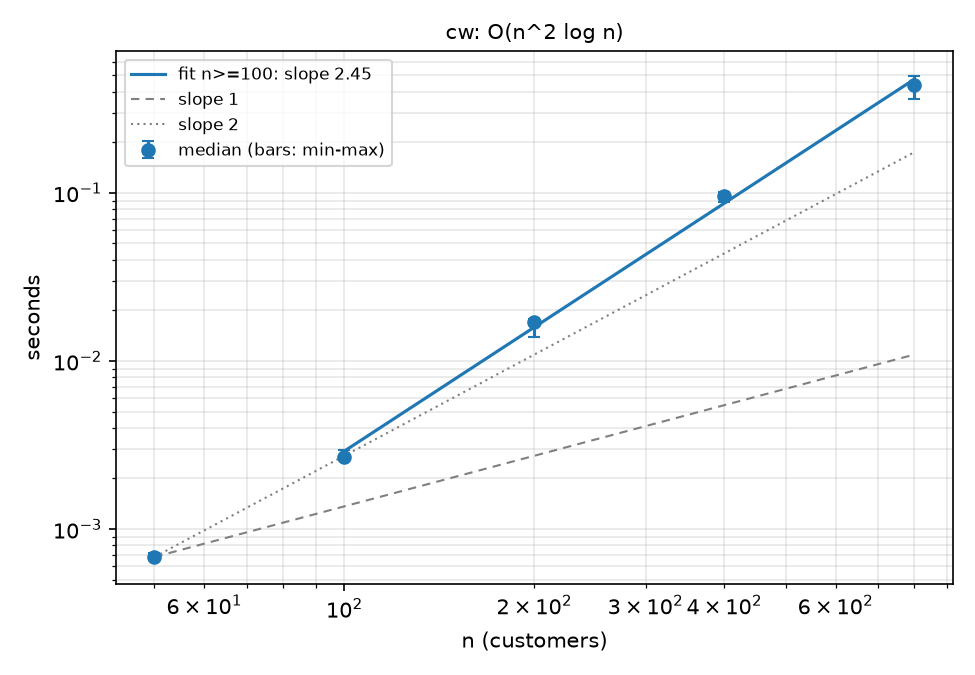
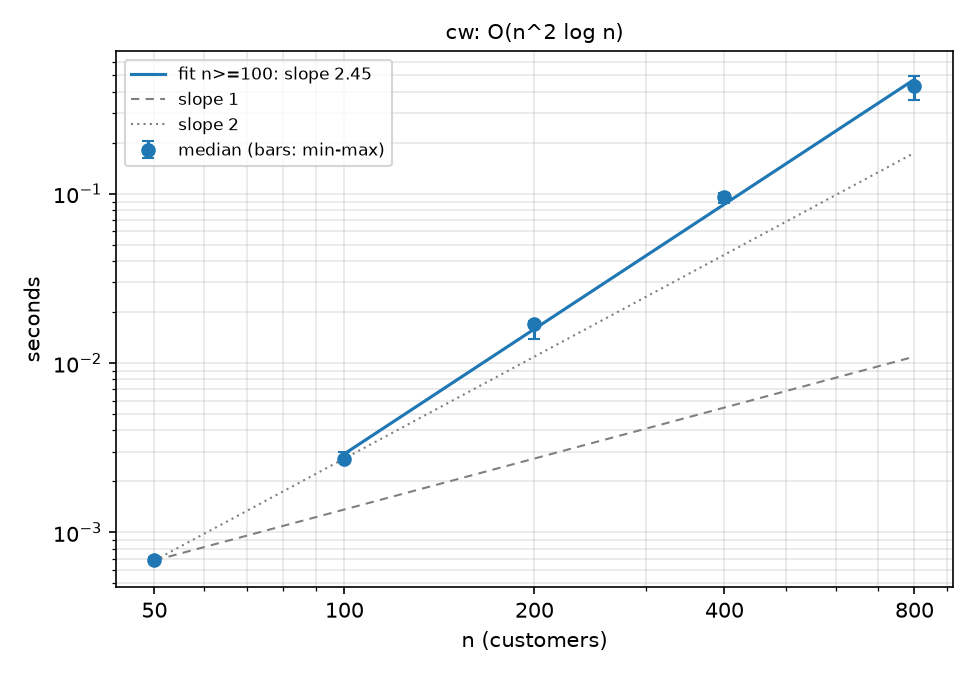
Step 6d-4: readable log axis ticks

diff --git a/experiments/timing.py b/experiments/timing.py
@@ -425,6 +425,20 @@ def _plt():
     return plt
 
 
+def tick_label(v: float) -> str:
+    """Plain tick text: '50', '800' for sizes, '2.9' for non-integer L values. Time: O(1)."""
+    return f"{v:g}" if float(v).is_integer() else f"{v:.1f}"
+
+
+def measured_ticks(ax, values) -> None:
+    """Major x ticks of a log axis exactly at the measured values, with plain labels; minor tick labels hidden
+    (matplotlib's default '3x10^2 4x10^2' labels overlap). Call after ax.set_xscale('log'). Time: O(len(values))."""
+    from matplotlib.ticker import NullFormatter
+    values = sorted(set(float(v) for v in values))
+    ax.set_xticks(values, [tick_label(v) for v in values])
+    ax.xaxis.set_minor_formatter(NullFormatter())
+
+
 def _draw_component(ax, rows: list[dict], comp: str, fit: dict | None) -> None:
     pts = medians(rows, comp)
     xs, med = np.array([p[0] for p in pts]), np.array([p[1] for p in pts])
@@ -440,6 +454,7 @@ def _draw_component(ax, rows: list[dict], comp: str, fit: dict | None) -> None:
         ax.plot(xs, med[0] * (xs / xs[0]) ** k, color="grey", linestyle=style, linewidth=1, label=f"slope {k}")
     ax.set_xscale("log")
     ax.set_yscale("log")
+    measured_ticks(ax, xs)
     ax.set_xlabel("n (customers)")
     ax.set_ylabel("seconds")
     ax.set_title(f"{comp}: {THEORY[comp][0]}", fontsize=10)
@@ -488,6 +503,7 @@ def plot_split_vs_L(rows: list[dict], out_path: Path) -> Path:
     n = next(int(r["n"]) for r in rows if r["component"] == "split_unlimited_q")
     ax.set_xscale("log")
     ax.set_yscale("log")
+    measured_ticks(ax, [p[0] for p in medians(rows, "split_unlimited_q", x="L")])
     ax.set_xlabel("L_eff = arcs examined / n (customers per route)")
     ax.set_ylabel("seconds per split() call")
     ax.set_title(f"Split vs L at fixed n = {n} (Q varied)", fontsize=11)
@@ -508,6 +524,7 @@ def plot_delta_vs_full(rows: list[dict], out_path: Path) -> Path:
     ax.plot(xs, [p[1] * 1e6 for p in full], marker="s", color="tab:red", label="full re-evaluation, O(n)")
     ax.set_xscale("log")
     ax.set_yscale("log")
+    measured_ticks(ax, xs)
     ax.set_xlabel("n (customers)")
     ax.set_ylabel("microseconds per relocate move")
     ax2 = ax.twinx()
@@ -523,6 +540,15 @@ def plot_delta_vs_full(rows: list[dict], out_path: Path) -> Path:
     fig.savefig(out_path, dpi=150)
     plt.close(fig)
     return out_path
+
+
+def write_figures(rows: list[dict], fits: list[dict], figures_dir: Path) -> list[Path]:
+    """Every timing figure. `rows` may come from measure_all or be read back from timing.csv (string values),
+    so the figures can be redrawn without measuring again. Time: O(rows)."""
+    figures_dir.mkdir(parents=True, exist_ok=True)
+    figs = plot_components(rows, fits, figures_dir)
+    return figs + [plot_split_vs_L(rows, figures_dir / "split_vs_L.png"),
+                   plot_delta_vs_full(rows, figures_dir / "delta_vs_full.png")]
 
 
 # --------------------------------------------------------------------------- entry point
@@ -542,8 +568,7 @@ def run(cfg: Config, out: Path, tables: Path, figures: Path) -> dict:
     share_csv = write_rows(out / "share_ga_ls.csv", SHARE_COLUMNS, share)
     fits = build_fits(rows)
     tables_written = write_fits(fits, tables)
-    figs = plot_components(rows, fits, figures)
-    figs += [plot_split_vs_L(rows, figures / "split_vs_L.png"), plot_delta_vs_full(rows, figures / "delta_vs_full.png")]
+    figs = write_figures(rows, fits, figures)
     print(f"done in {time.perf_counter() - started:.0f} s")
     return {"rows": rows, "fits": fits, "share": share,
             "files": [timing_csv, hw_path, share_csv, *tables_written, *figs]}

diff --git a/tests/test_timing.py b/tests/test_timing.py
@@ -8,10 +8,13 @@ import time
 
 import pytest
 
-from experiments.timing import (N_COMPONENTS, SLOPE_TOL, build_fits, fit_loglog, main, theory_slope, verdict,
-                                write_fits)
+from pathlib import Path
+
+from experiments.timing import (N_COMPONENTS, SLOPE_TOL, build_fits, fit_loglog, main, measured_ticks, theory_slope,
+                                verdict, write_figures, write_fits)
 
 NS = [50, 100, 200, 400, 800]
+TIMING_CSV = Path(__file__).resolve().parents[1] / "results" / "timing" / "timing.csv"
 
 
 def test_fit_recovers_quadratic():
@@ -80,6 +83,36 @@ def test_fits_writer_is_deterministic(tmp_path):
         data = pa.read_bytes()
         assert data == pb.read_bytes() and b"\r" not in data
     assert f"max(2*SE, {SLOPE_TOL})" in (tmp_path / "a" / "complexity_fits.md").read_text()
+
+
+def test_log_axis_ticks_are_the_measured_values():
+    import matplotlib
+    matplotlib.use("Agg")
+    import matplotlib.pyplot as plt
+    fig, ax = plt.subplots()
+    ax.plot([50, 800], [1, 2])
+    ax.set_xscale("log")
+    measured_ticks(ax, [800, 50, 100, 200, 400, 100])
+    fig.canvas.draw()
+    assert [t.get_text() for t in ax.get_xticklabels()] == ["50", "100", "200", "400", "800"]
+    assert all(t.get_text() == "" for t in ax.get_xticklabels(minor=True))
+    measured_ticks(ax, [2.91, 6.09, 12.33])
+    assert [t.get_text() for t in ax.get_xticklabels()] == ["2.9", "6.1", "12.3"]
+    plt.close(fig)
+
+
+@pytest.mark.skipif(not TIMING_CSV.exists(), reason="no committed timing results")
+def test_figures_redrawn_from_timing_csv(tmp_path):
+    """The figures can be rebuilt from the committed timing.csv without measuring; the CSV is only read."""
+    before = TIMING_CSV.read_bytes()
+    with TIMING_CSV.open(newline="") as f:
+        rows = list(csv.DictReader(f))
+    paths = write_figures(rows, build_fits(rows), tmp_path)
+    expected = {f"complexity_{c}.png" for c in N_COMPONENTS} | {"complexity_overview.png", "split_vs_L.png",
+                                                                 "delta_vs_full.png"}
+    assert {p.name for p in paths} == expected
+    assert all(p.exists() and p.stat().st_size > 10_000 for p in paths)
+    assert TIMING_CSV.read_bytes() == before
 
 
 def test_smoke_run_writes_everything(tmp_path):
